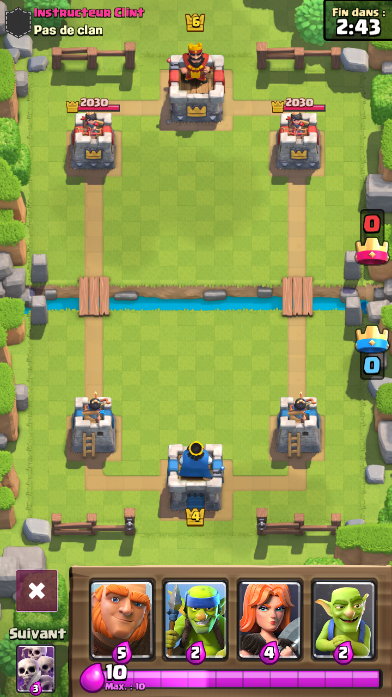
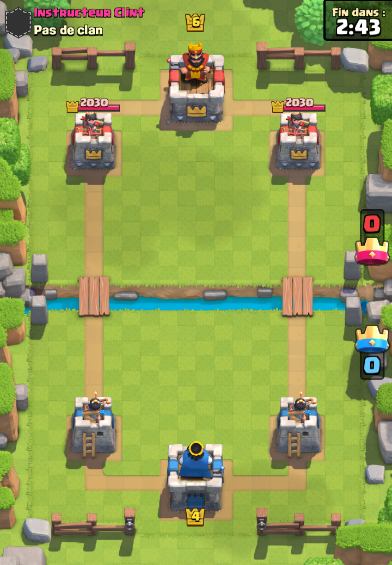
- big refactor. Removed all reference to sidebar that's disapeared anyway. Please don't come back ! - Diff of arena work with training arena. Should be able to detect accumulation of ennemies.

diff --git a/clashAI.py b/clashAI.py
@@ -306,8 +306,8 @@ def convert_RGB_to_BGR(img):
 	return returnList
 	
 def board_coord_to_mousepos(data, a, b):
-	square_dim_x = data["drop_area"]["width"] / data["grid_size"][0]
-	square_dim_y = data["drop_area"]["height"] / data["grid_size"][1]
+	square_dim_x = data["drop_area"]["width"] / (data["grid_size"][0]-1)
+	square_dim_y = data["drop_area"]["height"] / (data["grid_size"][1]-1)
 	pos_x = data["drop_area_abs"]["left"] + (a * square_dim_x)
 	pos_y = data["drop_area_abs"]["top"] + (b * square_dim_y)
 	
@@ -330,22 +330,8 @@ def search_image(path, x=0, y=0, w=-1, h=-1):
 	
 def calculate_offset_from_appname_ref(data):
 	coord = search_image(data["ref_img"]["settingbtn"])
+	myprint("coord : " + str(coord),3)
 	data["appname_key"] = "settingbtn"
-	if coord is None:
-		coord = search_image(data["ref_img"]["settingbtn_noside"])
-		if coord is None:
-			myprint("ERROR: Screen not found from ref : " + data["ref_img"]["settingbtn"] + " or " + data["ref_img"]["settingbtn_noside"], 3)
-		data["appname_key"] = "settingbtn_noside"
-		
-		coord2 = search_image(data["ref_img"]["shop_noside"])
-		expected_x = data["button_coords"]["settingbtn"][0] - data["button_coords"]["shop_side"][0]
-		expected_y = data["button_coords"]["settingbtn"][1] - data["button_coords"]["shop_side"][1]
-		actual_x = data["button_coords"]["settingbtn_noside"][0] - data["button_coords"]["shop_noside"][0]
-		actual_y = data["button_coords"]["settingbtn_noside"][1] - data["button_coords"]["shop_noside"][1]
-		data["world_aspect"] = (actual_x / expected_x, actual_y / expected_y)
-	else:
-		data["world_aspect"] = (1,1)
-		
 	data["world_ref"] = coord
 	
 def calculate_absolute_button_pos(data):
@@ -354,12 +340,12 @@ def calculate_absolute_button_pos(data):
 	appname_abs_offset_x = data["world_ref"][0] - data["button_coords"]["settingbtn"][0]
 	appname_abs_offset_y = data["world_ref"][1] - data["button_coords"]["settingbtn"][1]
 	for button_name in data["button_coords"]:
-		world_pos_x = (data["button_coords"][button_name][0] + appname_abs_offset_x)# * data["world_aspect"][0]
-		world_pos_y = (data["button_coords"][button_name][1] + appname_abs_offset_y)# * data["world_aspect"][1]
+		world_pos_x = data["button_coords"][button_name][0] + appname_abs_offset_x
+		world_pos_y = data["button_coords"][button_name][1] + appname_abs_offset_y
 		data["button_abs_coords"][button_name] = (int(world_pos_x), int(world_pos_y))
 		
-	world_pos_x = (data["drop_area"]["left"] * data["world_aspect"][0]) + appname_abs_offset_x
-	world_pos_y = (data["drop_area"]["top"] * data["world_aspect"][1]) + appname_abs_offset_y
+	world_pos_x = data["drop_area"]["left"] + appname_abs_offset_x
+	world_pos_y = data["drop_area"]["top"] + appname_abs_offset_y
 	data["drop_area_abs"]["left"] = int(world_pos_x)
 	data["drop_area_abs"]["top"] = int(world_pos_y)
 	
@@ -430,8 +416,14 @@ def calculate_arena_diff(data):
 	myprint("width " + str(width) + " height " + str(height) + " arena_offset_x " + str(arena_offset_x) + " arena_offset_y " + str(arena_offset_y))
 	arena_pic = arena_pic.reshape(width * height, 4)
 	
-	#test = [print(str(pref) + str(p)) for p, pref in zip(arena_pic,btnpixeldata)]
-	sub_img = [(p[0], p[1], p[2]) if abs(numpy.subtract(pref, p).sum()) > MAX_COLOR_DIFF else (0,0,0) for p, pref in zip(arena_pic,btnpixeldata)]
+	t = arena_pic / 255
+	t = t.reshape(height, width, 4)
+	plt.imshow(t)
+	#<matplotlib.image.AxesImage object at 0x04123CD0>
+	plt.show()
+	
+	# MAX_COLOR_DIFF * 10 to try to get rid of clouds. I think the contrast between bg and units should be big enought
+	sub_img = [(p[0], p[1], p[2]) if abs(numpy.subtract(pref, p).sum()) > (MAX_COLOR_DIFF*10) else (0,0,0) for p, pref in zip(arena_pic,btnpixeldata)]
 	
 	a = numpy.array(sub_img)
 	a = a / 255
@@ -465,14 +457,20 @@ def run_all(actions, data):
 		calculate_corrected_button_pos(data)
 		a = (data["world_ref"][0] - gScreenOffsetL, data["world_ref"][1] - gScreenOffsetT)
 		
-		myprint("found world ref at : " + str(a) + " with : " + data["appname_key"] + " aspect ratio " + str(data["world_aspect"]),2)
+		myprint("found world ref at : " + str(a) + " with : " + data["appname_key"],2)
+		myprint("corrected setting coord : " + str(data["button_correct_coords"]["settingbtn"]))
+		myprint("corrected start coord : " + str(data["button_correct_coords"]["battle"]))
+		myprint("corrected arena top left coord : " + str(data["button_correct_coords"]["arena_top_left"]))
+		
 		
 	if "wait_after_init" in actions:
 		sleep(8)
 		
 	if "test_screen_diff" in actions:
-		updateScreen(handle[0])
-		calculate_arena_diff(data)
+		while True:
+			updateScreen(handle[0])
+			calculate_arena_diff(data)
+			sleep(10)
 		
 	if "find_screen" in actions:
 		cur_screen = get_current_screen_name(data)
@@ -488,13 +486,14 @@ def run_all(actions, data):
 				
 	if "test_play_area" in actions:
 		sleep(5)
-		for x in range(15):
-			for y in range(15):
+		for x in range(data["grid_size"][0]):
+			for y in range(data["grid_size"][1]):
 				board_x, board_y = board_coord_to_mousepos(data, x, y)
 				#moveMouse(data["drop_area_abs"]["left"], data["drop_area_abs"]["top"])
 				#moveMouse(data["button_abs_coords"]["card2"][0], data["button_abs_coords"]["card2"][1])
 				moveMouse(board_x, board_y)
-				sleep(0.5)
+				sleep(0.2)
+			sleep(2)
 				
 	if "test_battle_button" in actions:
 		moveMouse(*data["button_abs_coords"]["settingbtn"])
@@ -573,10 +572,10 @@ if __name__ == '__main__':
 			"update_screen",
 			"init",
 			"wait_after_init",
-			"test_screen_diff",
+			#"test_screen_diff",
 			#"test_cards",
 			#"find_screen",
-			#"test_play_area",
+			"test_play_area",
 			#"test_battle_button",
 			#"test_energy",
 			#"start_battle",
@@ -588,10 +587,10 @@ if __name__ == '__main__':
 			"current_arena": "arena_0", #could detect it eventually, for now should be ok
 			"ref_img" : {
 				"appname" : os.path.join(DATA_FOLDER, "ref", "appname.png"),
-				"settingbtn" : os.path.join(DATA_FOLDER, "ref", "settingbtn.png"),
-				"settingbtn_noside" : os.path.join(DATA_FOLDER, "ref", "settingbtn_noside.png"),
-				"shop_side" : os.path.join(DATA_FOLDER, "ref", "shop_side.png"),
-				"shop_noside" : os.path.join(DATA_FOLDER, "ref", "shop_noside.png"),
+				"settingbtn" : os.path.join(DATA_FOLDER, "ref", "settingbtn_noside.png"),
+				#"settingbtn_noside" : os.path.join(DATA_FOLDER, "ref", "settingbtn_noside.png"),
+				"shop_side" : os.path.join(DATA_FOLDER, "ref", "shop_noside.png"),
+				#"shop_noside" : os.path.join(DATA_FOLDER, "ref", "shop_noside.png"),
 				"arena_0" : os.path.join(DATA_FOLDER, "ref", "training_arena.png"), #training arena
 				"cards" : {
 					"skelarmy" : os.path.join(DATA_FOLDER, "ref", "cardskelarmy.png"),
@@ -606,34 +605,34 @@ if __name__ == '__main__':
 				}
 			},
 			"button_coords" : {
-				"battle" : (677,477),
-				"finish" : (676,645),
-				"card0" : (600,650),
-				"card1" : (675,650),
-				"card2" : (750,650),
-				"card3" : (825,650),
-				"appname" : (245,3),
-				"settingbtn" : (831,81),
-				"settingbtn_noside" : (772,81),
-				"shop_side" : (493,668),
-				"shop_noside" : (442,668),
-				"homescreen" : (683,453),
-				"battlescreen" : (711,598),
-				"victoryscreen" : (673,631),
-				"energy0" : (588,706),
-				"energy1" : (608,706),
-				"energy2" : (634,706),
-				"energy3" : (658,706),
-				"energy4" : (687,706),
-				"energy5" : (711,706),
-				"energy6" : (738,706),
-				"energy7" : (766,706),
-				"energy8" : (794,706),
-				"energy9" : (822,706),
-				"energy10" : (848,706),
+				"battle" : (650,477), #(677,477),
+				"finish" : (650,645),
+				"card0" : (572,650),
+				"card1" : (648,650),
+				"card2" : (721,650),
+				"card3" : (796,650),
+				#"appname" : (245,3),
+				"settingbtn" : (802,81),
+				#"settingbtn_noside" : (772,81),
+				#"shop_side" : (442,668),
+				#"shop_noside" : (442,668),
+				"homescreen" : (652,453), #(683,453),
+				"battlescreen" : (683,598), #(711,598),
+				"victoryscreen" : (616,631), #(673,631),
+				"energy0" : (557,706),
+				"energy1" : (581,706),
+				"energy2" : (599,706),
+				"energy3" : (626,706),
+				"energy4" : (653,706),
+				"energy5" : (681,706),
+				"energy6" : (707,706),
+				"energy7" : (735,706),
+				"energy8" : (763,706),
+				"energy9" : (790,706),
+				"energy10" : (825,706),
 				"stacksidebar" : (29,61),
 				"deckstarcorner" : (569,607),
-				"arena_top_left" : (481,32)
+				"arena_top_left" : (452,31)
 			},
 			"screen_colors" : {
 				"homescreen" : [83,208,255], # color of the pixel at button_coords/homescreen (GRB)
@@ -644,15 +643,15 @@ if __name__ == '__main__':
 			},
 			"game_area" : {
 				"top":31,
-				"left":481,
+				"left":452,
 				"width":391,
 				"height":696
 			},
 			"drop_area" : {
-				"top":348,
-				"left":520,
-				"width":318,
-				"height":210
+				"top":349,
+				"left":492,
+				"width":314,
+				"height":209
 			},
 			"grid_size" : (18,15)
 		})
